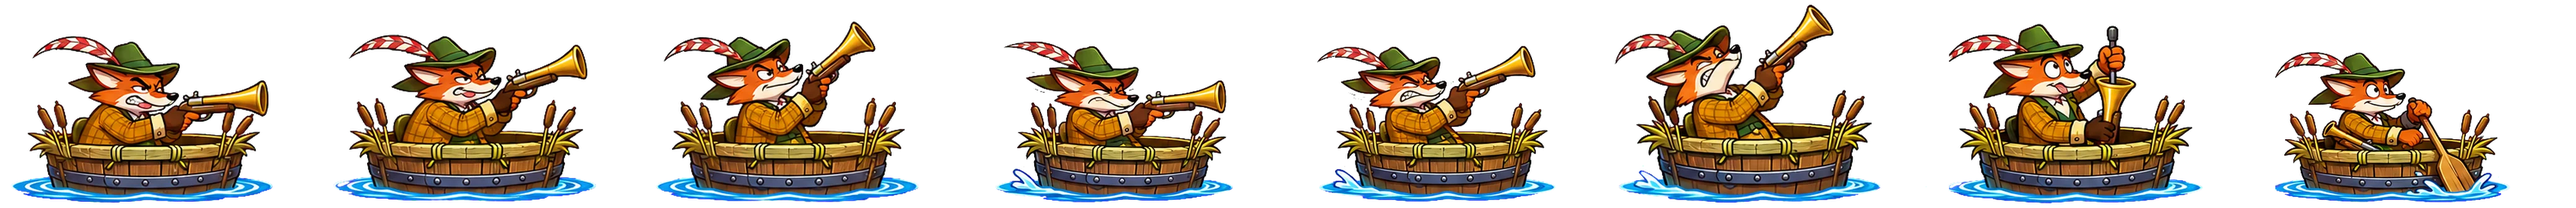
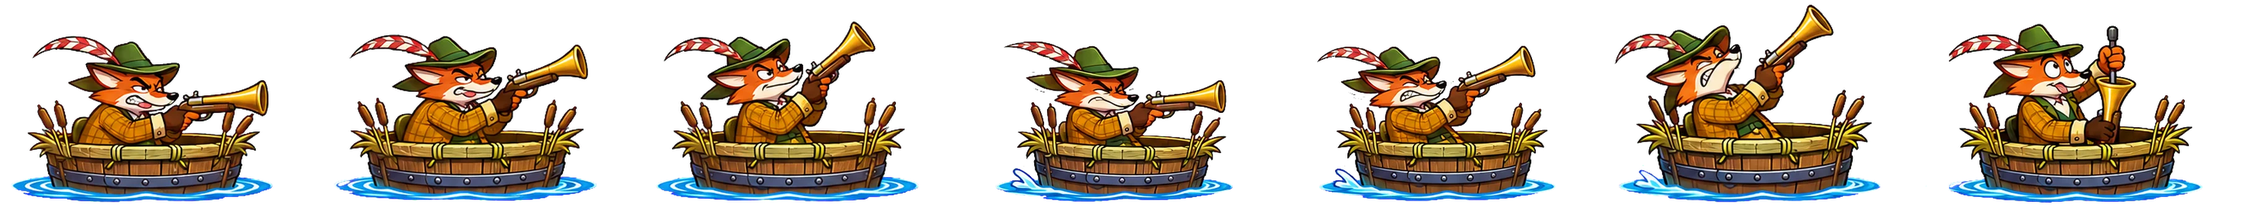
fix(crash): the fox no longer paddles
After a shot the fox reloads and aims again, without the paddling pose in
between. The pose is out of fox-boat.webp (7 poses now), so the strip is
smaller too.

diff --git a/resources/views/crash/scenes/marsh/script.blade.php b/resources/views/crash/scenes/marsh/script.blade.php
@@ -10,10 +10,10 @@
         const $loot = $marsh.querySelector('.loot');
         const LOOT = [@json($sceneDef['art']('coin.webp')), @json($sceneDef['art']('feather.webp'))];
         const SPRAY = @json($sceneDef['art']('shot-spray.webp'));
-        // fox-boat.webp: 8 poses, 0-2 aiming low / mid / high, 3-5 firing at those, 6 reloading,
-        // 7 paddling; and where the bell's mouth is in poses 0-5, as fractions of a pose
+        // fox-boat.webp: 7 poses, 0-2 aiming low / mid / high, 3-5 firing at those, 6 reloading;
+        // and where the bell's mouth is in poses 0-5, as fractions of a pose
         // (scripts/art/process-lucky-duck.py).
-        const FOX_MUZZLE = [[0.819, 0.432], [0.802, 0.272], [0.693, 0.192], [0.792, 0.434], [0.745, 0.271], [0.672, 0.118]];
+        const FOX_MUZZLE = [[0.818, 0.431], [0.804, 0.271], [0.693, 0.191], [0.792, 0.433], [0.745, 0.27], [0.671, 0.118]];
         // Each strip's art, width ÷ height (one repeat), for the scroll's wrap-around.
         const STRIP_RATIO = { 'strip-hills': 1448 / 270, 'strip-marsh': 1448 / 451, 'strip-reeds': 1448 / 546 };
         const $strips = [...$marsh.querySelectorAll('.strip')].map(($s) => ({
@@ -95,12 +95,12 @@
             if ($marsh.dataset.sky !== sky) $marsh.dataset.sky = sky;
         }
 
-        // The fox: where he aims (0 low, 1 mid, 2 high) and what he does (aim | fire | reload | paddle).
+        // The fox: where he aims (0 low, 1 mid, 2 high) and what he does (aim | fire | reload).
         let aim = 0;
         let act = 'aim';
         function renderFox() {
-            const frame = act === 'paddle' ? 7 : act === 'reload' ? 6 : act === 'fire' ? 3 + aim : aim;
-            $foxSprite.style.backgroundPosition = `${(frame / 7 * 100).toFixed(3)}% 0`;
+            const frame = act === 'reload' ? 6 : act === 'fire' ? 3 + aim : aim;
+            $foxSprite.style.backgroundPosition = `${(frame / 6 * 100).toFixed(3)}% 0`;
             const [mx, my] = FOX_MUZZLE[Math.min(frame, 5)];
             $fox.style.setProperty('--mx', `${(mx * 100).toFixed(1)}%`);
             $fox.style.setProperty('--my', `${(my * 100).toFixed(1)}%`);
@@ -217,10 +217,9 @@
                 pose = over ? 'dodge-dip' : 'dodge-roll';
                 $duck.dataset.pose = pose;
             });
-            // Then he reloads, paddles a stroke after Lucky, and aims again.
+            // Then he reloads and aims again.
             later(340, () => act === 'fire' && setAct('reload'));
-            later(1150, () => act === 'reload' && setAct('paddle'));
-            later(1750, () => act === 'paddle' && setAct('aim'));
+            later(1400, () => act === 'reload' && setAct('aim'));
         }
         function shoot(m) {
             const t = Math.log(Math.max(1, m)) / G;

diff --git a/scripts/art/process-lucky-duck.py b/scripts/art/process-lucky-duck.py
@@ -281,10 +281,11 @@ hw = int(max(f.shape[1] for f in hit) * k) + 20
 hh = int(max(f.shape[0] for f in hit) * k) + 20
 report['duck-hit.webp'] = {'frames': len(hit), 'cell': (hw, hh), 'bytes': even_sheet(hit, 'duck-hit.webp', hw, hh, k)}
 
-# --- The fox: eight poses in his tub boat ------------------------------------------------------------
-# Two sheets drawn alike (the same half-barrel tub): fox-boat-aim.png aims low, mid, high and
-# paddles; fox-boat-fire.png fires low, mid, high and reloads. Frames: 0-2 aim, 3-5 fire,
-# 6 reload, 7 paddle. Lined up and scaled on the tub's iron hoops (the same in every frame).
+# --- The fox: seven poses in his tub boat ------------------------------------------------------------
+# Two sheets drawn alike (the same half-barrel tub): fox-boat-aim.png aims low, mid and high (its
+# fourth frame, paddling, isn't used); fox-boat-fire.png fires low, mid, high and reloads.
+# Frames: 0-2 aim, 3-5 fire, 6 reload. Lined up and scaled on the tub's iron hoops (the same in
+# every frame).
 
 
 def despeck(f, keep=0.02):
@@ -321,7 +322,7 @@ def bell_mouth(f):
 
 aim_cells = [despeck(key(c, lo=10.0, hi=110.0)) for c in cells(load('fox-boat-aim.png'), 4, 1)]
 fire_cells = [despeck(key(c, lo=10.0, hi=110.0)) for c in cells(load('fox-boat-fire.png'), 4, 1)]
-poses = [trim(f, pad=2) for f in aim_cells[:3] + fire_cells + [aim_cells[3]]]
+poses = [trim(f, pad=2) for f in aim_cells[:3] + fire_cells]
 FOX_W = 520  # px: the output cell's width
 marks = [hoops(f) for f in poses]
 width = float(np.median([r - l for l, r, _ in marks]))
@@ -341,7 +342,7 @@ for i, (f, k, c, y) in enumerate(zip(poses, scales, centres, bottoms)):
     x0 = int(round((left - c) * z))
     y0 = int(round((above - y) * z))
     sheet.alpha_composite(img, (i * cw + x0, y0))
-    if i < 6:  # the reload holds the gun upright, the paddling lays it down: no shot from them
+    if i < 6:  # the reload holds the gun upright: no shot from it
         mx, my = bell_mouth(f)
         mouths.append((round((x0 + mx * k * z) / cw, 3), round((y0 + my * k * z) / ch, 3)))
 report['fox-boat.webp'] = {

diff --git a/resources/views/crash/scenes/marsh/styles-scene.blade.php b/resources/views/crash/scenes/marsh/styles-scene.blade.php
@@ -264,8 +264,8 @@
         }
 
         /* ---------- The fox ----------
-           In his tub boat (fox-boat.webp: 8 poses, 520 × 336 a cell, the waterline at 95%): aiming
-           low, mid, high; firing at those; reloading; paddling. The script picks the pose
+           In his tub boat (fox-boat.webp: 7 poses, 520 × 337 a cell, the waterline at 95%): aiming
+           low, mid, high; firing at those; reloading. The script picks the pose
            (background-position) and puts the muzzle at its bell (--mx / --my). He floats bottom
            left, out on the pond: behind the near reeds (z-index under .strip-reeds), his waterline
            on the open water of the marsh strip, so the reeds hide the tub's bottom and he sits in the
@@ -274,8 +274,8 @@
            boat while Lucky flies. */
         .marsh .fox {
             position: absolute; left: 1.5%; bottom: calc(var(--op-bar-h, 0px) + 12%); z-index: 5;
-            width: clamp(160px, 18vw, 280px); aspect-ratio: 520 / 336;
-            --mx: 81.9%; --my: 43.2%;
+            width: clamp(160px, 18vw, 280px); aspect-ratio: 520 / 337;
+            --mx: 81.8%; --my: 43.1%;
         }
         @media (orientation: portrait) {
             .marsh .fox { width: clamp(120px, 33vw, 200px); bottom: calc(var(--op-bar-h, 0px) + 7.5%); }
@@ -284,7 +284,7 @@
         @keyframes marsh-boat { from { translate: 0 -2px; rotate: -1.5deg; } to { translate: 0 2px; rotate: 1.5deg; } }
         .marsh .fox-sprite {
             position: absolute; inset: 0;
-            background: url("{{ $sceneDef['art']('fox-boat.webp') }}") 0 0 / 800% 100% no-repeat;
+            background: url("{{ $sceneDef['art']('fox-boat.webp') }}") 0 0 / 700% 100% no-repeat;
         }
         .marsh .wake {
             position: absolute; right: 78%; bottom: 1%; width: 70%; aspect-ratio: 308 / 53;

diff --git a/resources/views/crash/scenes/marsh/scene.blade.php b/resources/views/crash/scenes/marsh/scene.blade.php
@@ -43,8 +43,8 @@
             <div class="strip strip-reeds" style="--k: 1.2"><b></b></div>
 
             {{-- The fox in his tub boat on the pond, bottom left (on the bet bar when embedded).
-                 Eight poses (fox-boat.webp): aiming low, mid and high, firing at those, reloading and
-                 paddling, picked by the script, which also puts the muzzle at the pose's bell
+                 Seven poses (fox-boat.webp): aiming low, mid and high, firing at those and reloading,
+                 picked by the script, which also puts the muzzle at the pose's bell
                  (--mx / --my). The boat bobs; its wake streams out behind it while Lucky flies. --}}
             <div class="fox" aria-hidden="true">
                 <div class="boat">
